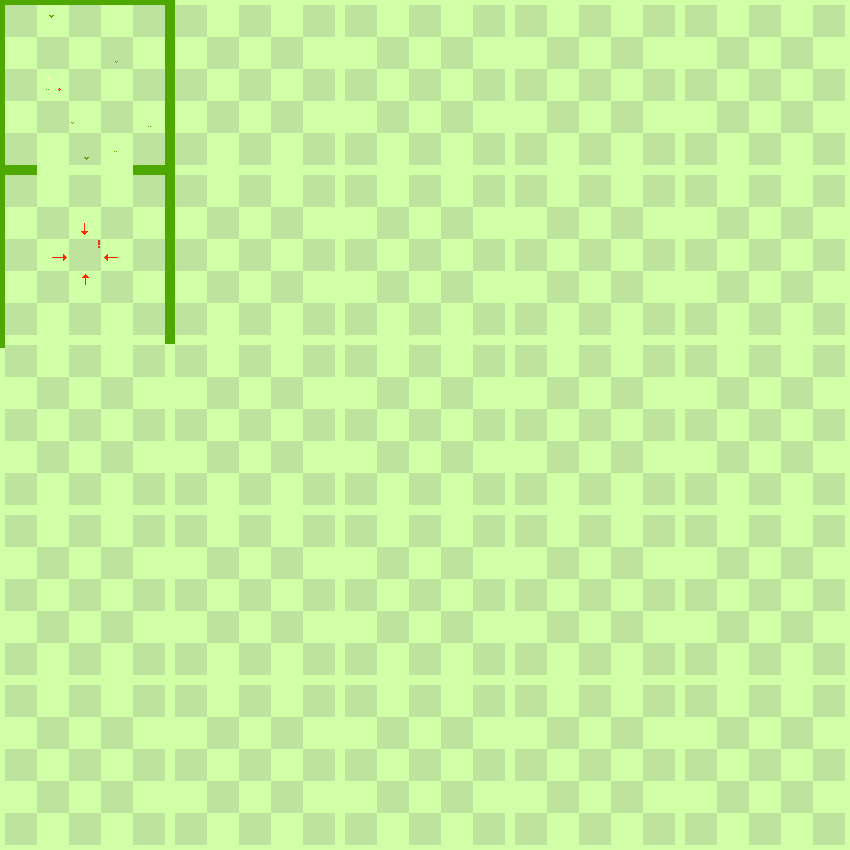
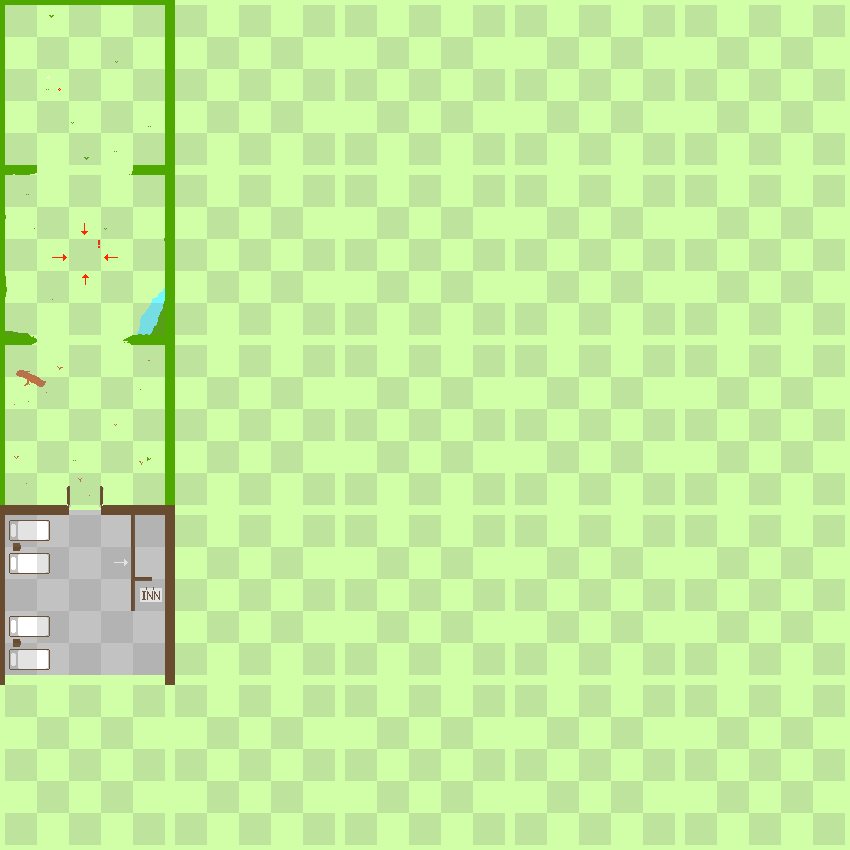
なんかこう、ゲーム感が出てきたね

Changed region(s): [[0.0, 0.3365, 0.2141, 0.8259]]

diff --git a/omocha/slide_glitch_RPG.html b/omocha/slide_glitch_RPG.html
@@ -71,6 +71,13 @@
         </style>
         <script src="../js/public.js"></script>
         <script>
+            //オブジェクトを追加するときは
+            //変数宣言　：画像、位置　および初期化
+            //表示設定　：アニメ部
+            //ワールド移動設定
+            //当たり判定設定
+
+
             var ctx; 
             //画像
             var syuukun_0;
@@ -83,6 +90,8 @@
             var zakozakosan_1;
             var DEATH;
             var damage;
+            var moetti_0;
+            var moetti_1;
             //座標
             var deyu_x;
             var deyu_y;
@@ -94,6 +103,8 @@
             var kanbansan_1_y;
             var zakozakosan_x;
             var zakozakosan_y;
+            var moetti_x;
+            var moetti_y;
             function set_iti(){//ゲームオーバーで初期位置にずらしたいので初期化を関数にしておきます。
                 deyu_x=5;//周囲に壁を置くのでずらします。 しゅうくんの座標なのにでゆって変数名で草。おもしろいのでこのままでいいか
                 deyu_y=5;
@@ -105,6 +116,8 @@
                 kanbansan_1_y=5+1*32+0*170;
                 zakozakosan_x=5+2*32+0*170;
                 zakozakosan_y=5+2*32+1*170;
+                moetti_x=5+2*32+0*170;
+                moetti_y=5+3*32+2*170;
             }
             set_iti();
             //キーボードなど、システムの、あの、アレ、アレさ！
@@ -160,6 +173,10 @@
                 DEATH.src= image_url+"DEATH_32.png";
                 damage=new Image();
                 damage.src=image_url+"damage32.png";
+                moetti_0=new Image();
+                moetti_0.src=image_url+"moetti32_0.png";
+                moetti_1=new Image();
+                moetti_1.src=image_url+"moetti32_1.png";
 
                 var buttons = document.getElementsByClassName("key_button");//ボタン操作
                 if( window.ontouchstart === null ){ // 注：ontouchstartが存在しない時は undefined が返る
@@ -335,6 +352,8 @@
                         
                         ctx.drawImage(pon_0,pon_x,pon_y);
                         ctx.drawImage(zakozakosan_0,zakozakosan_x,zakozakosan_y);
+                        ctx.drawImage(moetti_0,moetti_x,moetti_y);
+                        
 
                     }else{
                         if(serihu.length==0 &&  battle.length==0){//ウィンドウが出てるときはしゅうくんがslide_glitch状態にから歩きを停止する
@@ -342,6 +361,7 @@
                         }
                         ctx.drawImage(pon_1,pon_x,pon_y);
                         ctx.drawImage(zakozakosan_1,zakozakosan_x,zakozakosan_y);
+                        ctx.drawImage(moetti_1,moetti_x,moetti_y);
                     }
                     
                     if(tekuteku==0){//しゅうくんがあるくよ！ 
@@ -359,8 +379,28 @@
                             }
                             
                         }
-                    }
 
+                        var rand_x = (Math.floor(Math.random()*3)-1)*32;//ランダムウォーク
+                        var rand_y = (Math.floor(Math.random()*3)-1)*32;
+                        var moved=0;
+                        if(!((moetti_x+rand_x)%170==165 ||(moetti_x+rand_x)%170==143 || moetti_x+rand_x<5)&& loop_count==0){
+                            moetti_x=moetti_x+rand_x;
+                            if(rand_x!=0){
+                                moved=1;
+                            }
+                        }
+                        if(!((moetti_y+rand_y)%170==165 ||(moetti_y+rand_y)%170==143 || moetti_y+rand_y<5)&& loop_count==50){
+                            moetti_y=moetti_y+rand_y;
+                            if(rand_y!=0){
+                                moved=1;
+                            }
+                        }
+                        if(moved==1 && deyu_x==moetti_x && deyu_y==moetti_y){
+                            moved=0;
+                            battle[battle.length]={image:[moetti_0,moetti_1],HP_MAX:2,HP:2,Attack:2,x:Math.floor(Math.random()*(115)+12),hyouji:0,cursor:0,EXP:2,damaging:0};
+                        }
+                    }
+                    
                     if(damaging>0){
                         ctx.drawImage(damage,deyu_x,deyu_y);
                         damaging=damaging+1;
@@ -481,6 +521,8 @@
                     kanbansan_1_y=kanbansan_1_y-world_dy;
                     zakozakosan_x=zakozakosan_x-world_dx;
                     zakozakosan_y=zakozakosan_y-world_dy;
+                    moetti_x=moetti_x-world_dx;
+                    moetti_y=moetti_y-world_dy;
                 }
                 
                 serihu_tuika();
@@ -490,10 +532,13 @@
 
             function idou_OK(iro_data){
                 if(iro_data[0]==78 && iro_data[1]==168 && iro_data[2]== 0){//濃い緑
-                    return 0;
-                }else{
+                }else if(iro_data[0]==87 && iro_data[1]==158 && iro_data[2]== 25){//灰濃い緑
+                }else if(iro_data[0]==105 && iro_data[1]==76 && iro_data[2]== 47){//茶色
+                }else if(iro_data[0]==108 && iro_data[1]==85 && iro_data[2]== 62){//灰茶色
+                }else{//ヨシ！
                     return 1;
                 }
+                return 0;
             }
             
             function serihu_window(){
@@ -579,6 +624,9 @@
             function teki_tuika(){
                 if(deyu_x==zakozakosan_x && deyu_y==zakozakosan_y){
                     battle[battle.length]={image:[zakozakosan_0,zakozakosan_1],HP_MAX:3,HP:3,Attack:1,x:Math.floor(Math.random()*(115)+12),hyouji:0,cursor:0,EXP:1,damaging:0};
+                }
+                if(deyu_x==moetti_x && deyu_y==moetti_y){
+                    battle[battle.length]={image:[moetti_0,moetti_1],HP_MAX:2,HP:2,Attack:2,x:Math.floor(Math.random()*(115)+12),hyouji:0,cursor:0,EXP:2,damaging:0};
                 }
             }
         </script>
